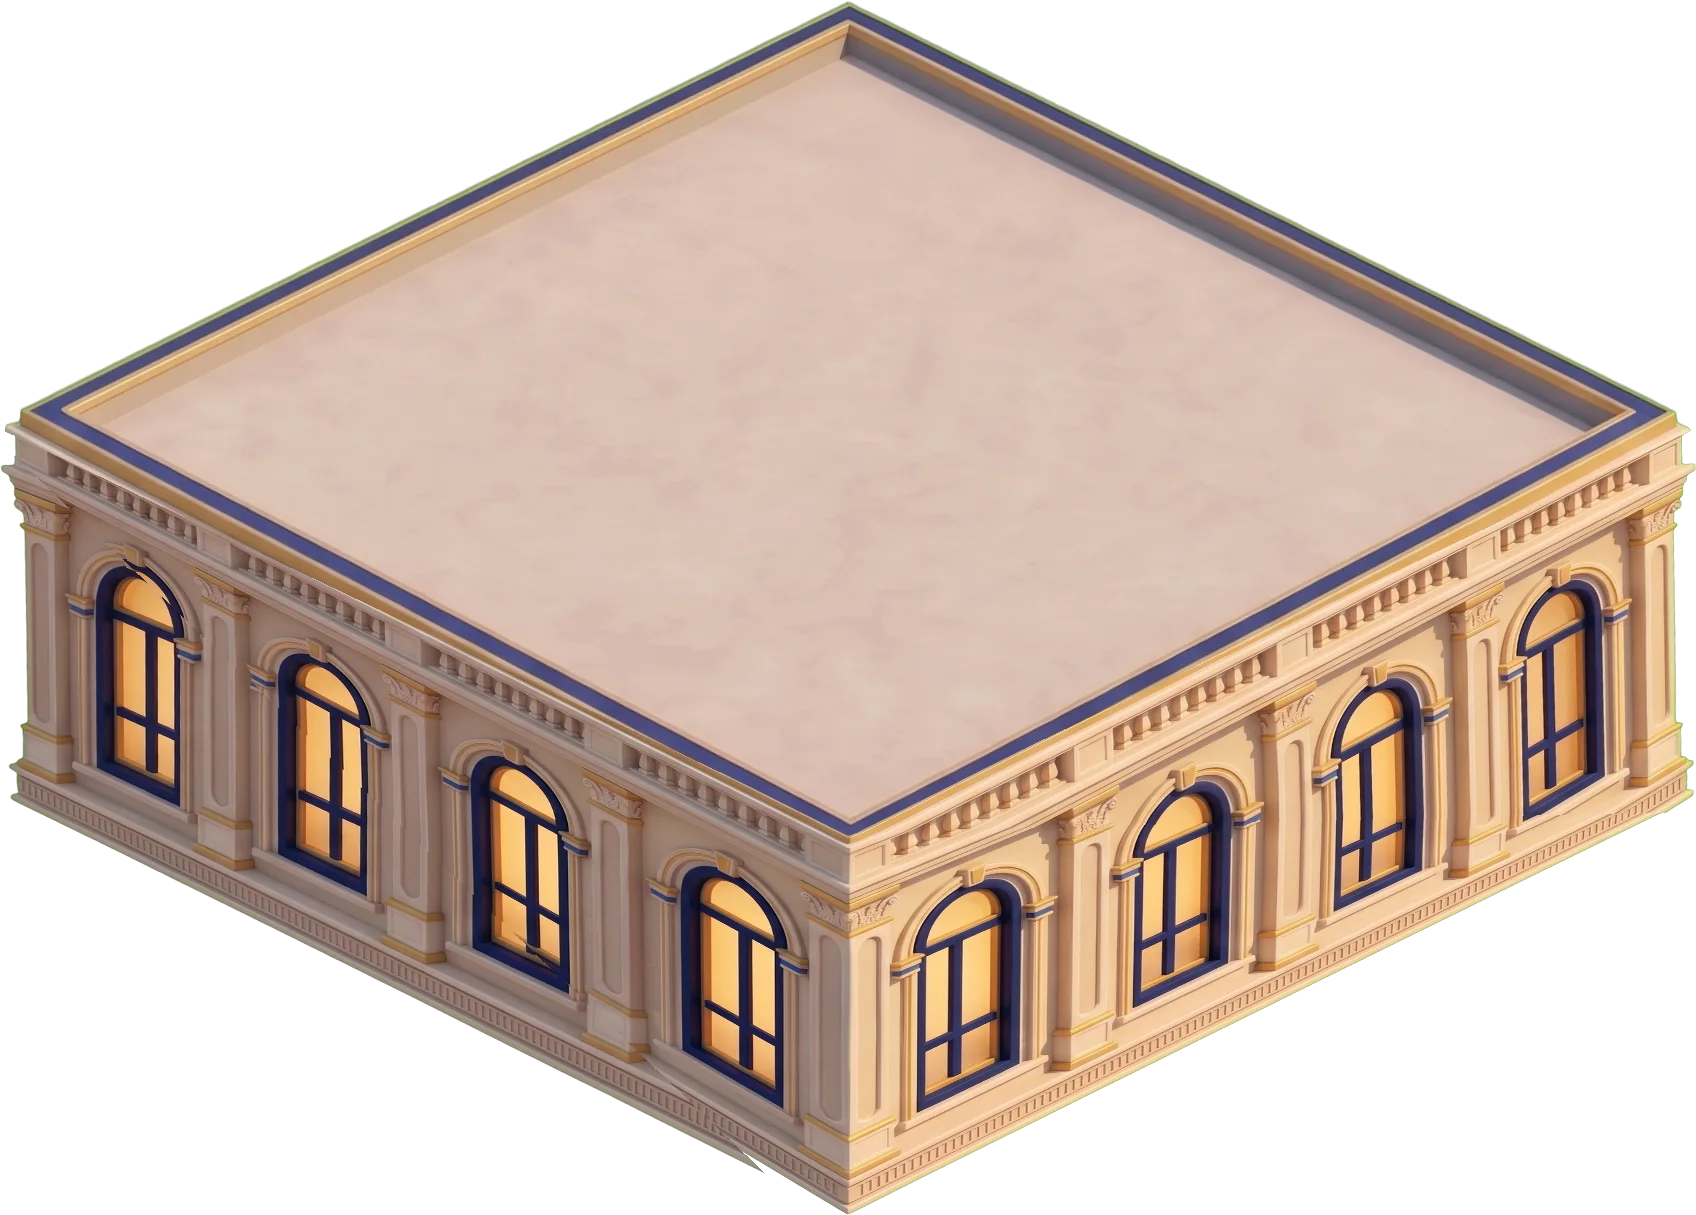
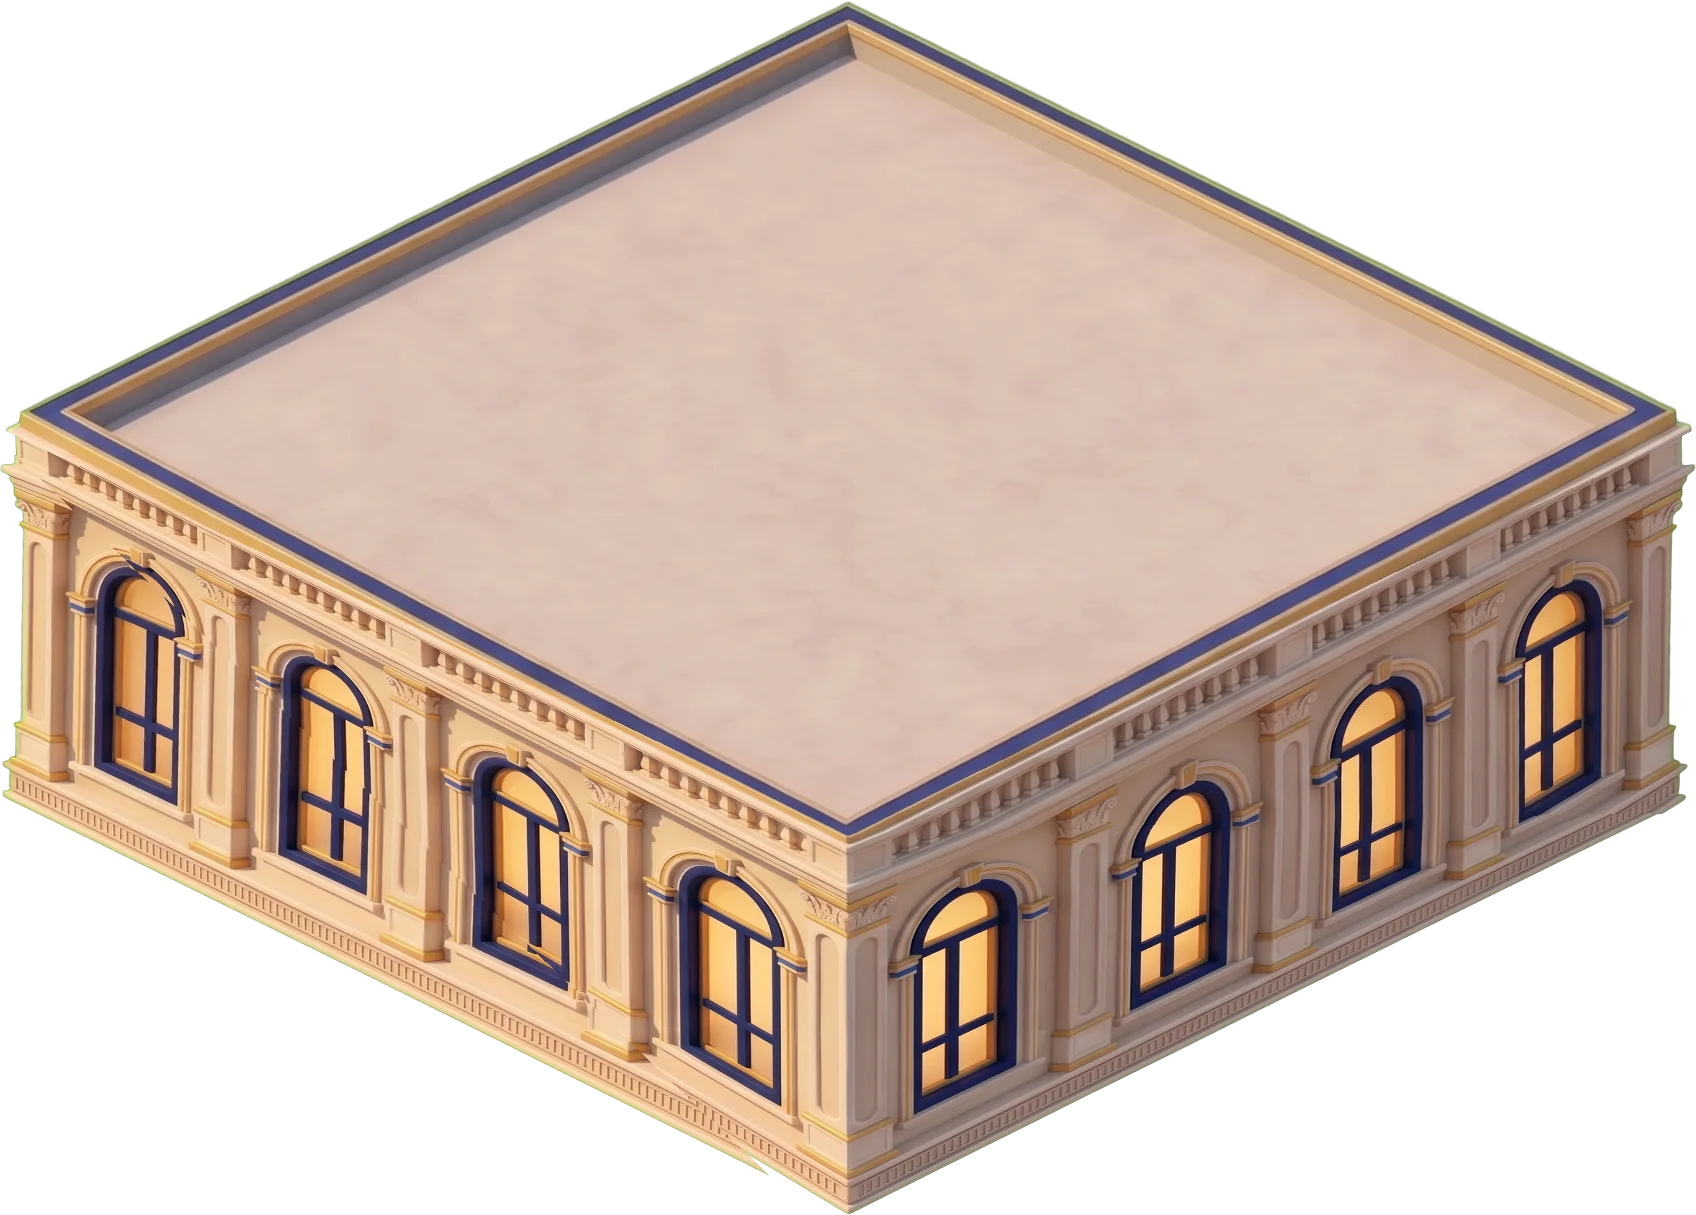
Island: club house render against the wall, storeys lit from the left, fling momentum, no tab swipe on Home, ?fps=1 meter

diff --git a/js/app/diorama-view.js b/js/app/diorama-view.js
@@ -968,7 +968,33 @@ export function wireDiorama(root, ctx) {
     const id = stage.gl.pick(p.x, p.y, (e.pointerType === 'mouse' ? 2 : 8) / view.v.s);
     return id ? worldEl.querySelector(`[data-item="${CSS.escape(id)}"]`) : null;
   };
+  // A fling: let go of a pan while moving and the camera glides on, slowing like a native scroll
+  // view (its speed falls by FRICTION each millisecond), till it stops or meets the world's edge.
+  // Any new touch catches it.
+  const FRICTION = 0.9965;
+  let glide = 0;
+  const stopGlide = () => { if (glide) cancelAnimationFrame(glide); glide = 0; };
+  const fling = (vx, vy) => {
+    stopGlide();
+    if (reduced() || Math.hypot(vx, vy) < 0.25) return;
+    let last = performance.now();
+    const step = (now) => {
+      if (!vp.isConnected) { glide = 0; return; }
+      const dt = Math.min(40, now - last); last = now;
+      const k = FRICTION ** dt;
+      vx *= k; vy *= k;
+      const want = { ...view.v, tx: view.v.tx + vx * dt, ty: view.v.ty + vy * dt };
+      view.v = want; apply();
+      // held at an edge: that way stops
+      const r = box(); const c = clampView(want, r.width, r.height, env);
+      if (Math.abs(c.tx - want.tx) > 0.5) vx = 0;
+      if (Math.abs(c.ty - want.ty) > 0.5) vy = 0;
+      glide = Math.hypot(vx, vy) > 0.02 ? requestAnimationFrame(step) : 0;
+    };
+    glide = requestAnimationFrame(step);
+  };
   vp.onpointerdown = (e) => {
+    stopGlide();
     panned = false; swallow = false;
     if (e.button !== undefined && e.button > 0) return;
     pts.set(e.pointerId, { x: e.clientX, y: e.clientY });
@@ -1010,6 +1036,9 @@ export function wireDiorama(root, ctx) {
     }
     if (g.mode === 'pan' && g.moved) {
       view.v = { ...g.from, tx: g.from.tx + dx, ty: g.from.ty + dy }; apply();
+      // the finger's last 80 ms, for the fling's speed
+      (g.trail ||= []).push({ t: e.timeStamp, x: e.clientX, y: e.clientY });
+      while (g.trail.length > 2 && e.timeStamp - g.trail[0].t > 80) g.trail.shift();
     } else if (g.mode === 'drag' && g.moved) {
       g.cx = e.clientX; g.cy = e.clientY;
       if (!g.edgeLoop) g.edgeLoop = requestAnimationFrame(edgePan);
@@ -1061,6 +1090,12 @@ export function wireDiorama(root, ctx) {
       return;
     }
     if (done.mode === 'pan' && !done.moved) { if (done.item) select(done.item); else deselect(); }
+    if (done.mode === 'pan' && done.moved && done.trail?.length > 1 && pts.size === 0) {
+      const a = done.trail[0]; const b = done.trail[done.trail.length - 1];
+      const dt = b.t - a.t;
+      // a finger that stopped before letting go doesn't fling
+      if (dt > 8 && e.timeStamp - b.t < 60) fling((b.x - a.x) / dt, (b.y - a.y) / dt);
+    }
   };
   vp.onpointerup = end;
   vp.onpointercancel = (e) => { if (g?.mode === 'drag') cancelDrag(); pts.delete(e.pointerId); g = null; };

diff --git a/js/app/main.js b/js/app/main.js
@@ -44,6 +44,7 @@ import { syncQuestClaims } from './quest-sync.js';
 import { openMissionBoard, maybeShowRecap, BOARD_ART } from './missions-view.js';
 import { withTabTransition, rollNum, animateIn, busy } from './motion.js';
 import { wireTabSwipe } from './tab-swipe.js';
+import { maybeFpsMeter } from './fps-meter.js';
 import { openSeasonPath } from './game.js';
 import { openLayer, closeLayer, closeAllLayers, hasLayers, topLayerName, openRoute, leaveRoute } from './nav.js';
 import { haptic } from './haptics.js';
@@ -1079,6 +1080,7 @@ function maybeOnboard() {
 // ---- boot -------------------------------------------------------------------
 
 async function boot() {
+  maybeFpsMeter();   // ?fps=1: a frame meter, for testing on a phone
   // ?demo=1 only: a hook so screenshots and clips can show moments on demand
   if (new URLSearchParams(location.search).has('demo')) window.moskeDemo = { levelUp: (sport = 'run', level = 3) => openLevelUp(sport, level) };
   await store.init();
@@ -1164,11 +1166,12 @@ async function boot() {
 
   // gear and gels: re-render when the server copy changes; a gel running out redraws too
   onGear(() => render());
-  // swipe between the dock's tabs (not over HOME's stage, nor while anything is open)
+  // swipe between the dock's tabs (never from Home, whose base takes every drag: the camera, the
+  // floor picker; nor while anything is open)
   wireTabSwipe(document.getElementById('view'), {
     current: () => appState.tab,
     go: goTab,
-    blocked: () => hasLayers() || (appState.tab === 'progress' && appState.pgView === 'scene'),
+    blocked: () => hasLayers() || appState.tab === 'progress',
     label: (key) => t(key),
   });
   // the stage's room buttons switch the room on the Profile tab

diff --git a/js/app/fps-meter.js b/js/app/fps-meter.js
@@ -1,0 +1,32 @@
+// fps-meter.js — a small frame meter for testing smoothness on a real phone. Open the app with
+// ?fps=1 (it stays on till ?fps=0). Each second it shows the frames drawn, the slowest frame,
+// and how many frames in the last 10 s took over 50 ms (a hitch you can feel).
+
+const KEY = 'moske-fps';
+
+export function maybeFpsMeter() {
+  try {
+    const q = new URLSearchParams(location.search).get('fps');
+    if (q != null) localStorage.setItem(KEY, q === '1' ? '1' : '0');
+    if (localStorage.getItem(KEY) !== '1') return;
+  } catch { return; }
+  const el = document.createElement('div');
+  el.setAttribute('aria-hidden', 'true');
+  el.style.cssText = 'position:fixed;left:8px;top:calc(env(safe-area-inset-top) + 4px);z-index:99999;pointer-events:none;'
+    + 'font:600 11px/1.3 ui-monospace,monospace;color:#fff;background:rgba(0,0,0,.65);padding:4px 6px;border-radius:6px;white-space:pre';
+  document.body.append(el);
+  let last = performance.now(); let n = 0; let worst = 0; let since = last;
+  const hitches = [];
+  const tick = (now) => {
+    const dt = now - last; last = now; n++;
+    if (dt > worst) worst = dt;
+    if (dt > 50 && document.visibilityState === 'visible') hitches.push(now);
+    if (now - since >= 1000) {
+      while (hitches.length && now - hitches[0] > 10000) hitches.shift();
+      el.textContent = `${Math.round((n * 1000) / (now - since))} fps  worst ${Math.round(worst)} ms\nhitches/10s ${hitches.length}`;
+      n = 0; worst = 0; since = now;
+    }
+    requestAnimationFrame(tick);
+  };
+  requestAnimationFrame(tick);
+}

diff --git a/js/core/island-art.js b/js/core/island-art.js
@@ -444,8 +444,8 @@ export const ISLAND_ART = {
    4773.8
   ],
   "club": [
-   2574.7,
-   6728.0
+   2699.3,
+   6666.8
   ],
   "market": [
    3945.2,
@@ -466,17 +466,17 @@ export const ISLAND_ART = {
   },
   "club": {
    "src": "icons/Island/club.webp",
-   "x": 1986.1,
-   "y": 5803.6,
-   "w": 965.4,
-   "h": 961.4
+   "x": 2108.8,
+   "y": 5792.3,
+   "w": 1016.6,
+   "h": 963.7
   },
   "club-ruin": {
    "src": "icons/Island/club-ruin.webp",
-   "x": 1986.1,
-   "y": 5803.6,
-   "w": 965.4,
-   "h": 961.4
+   "x": 2108.8,
+   "y": 5792.3,
+   "w": 1016.6,
+   "h": 963.7
   },
   "market": {
    "src": "icons/Island/market.webp",
@@ -602,15 +602,15 @@ export const ISLAND_ART = {
    "src": "icons/Island/storey-1.webp",
    "w": 1696.0,
    "h": 1215.0,
-   "ax": 846.7,
+   "ax": 848.7,
    "ay": 1212.3,
    "wall": 380.0
   },
   {
    "src": "icons/Island/storey-2.webp",
-   "w": 1713.0,
+   "w": 1714.0,
    "h": 1122.0,
-   "ax": 859.7,
+   "ax": 852.7,
    "ay": 1115.5,
    "wall": 290.2
   },
@@ -624,9 +624,9 @@ export const ISLAND_ART = {
   },
   {
    "src": "icons/Island/storey-4.webp",
-   "w": 1718.0,
+   "w": 1717.0,
    "h": 1119.0,
-   "ax": 863.7,
+   "ax": 853.7,
    "ay": 1107.7,
    "wall": 278.4
   }

diff --git a/sw.js b/sw.js
@@ -1,7 +1,7 @@
 // sw.js — offline-first service worker. Precaches the app shell and serves
 // cache-first, falling back to the network (and to index.html for navigations).
 
-const CACHE = 'triquest-v164';
+const CACHE = 'triquest-v165';
 // pictures, models, fonts and the 3D library: kept across versions (see the fetch handler)
 const ASSETS_CACHE = 'triquest-assets';
 const checked = new Set();   // assets checked with the server while this worker runs
@@ -131,6 +131,7 @@ const ASSETS = [
   './js/app/quest-sync.js',
   './js/app/motion.js',
   './js/app/tab-swipe.js',
+  './js/app/fps-meter.js',
   './js/app/game.js',
   './js/app/share.js',
   './js/app/onboarding.js',

diff --git a/tools/fit-building.py b/tools/fit-building.py
@@ -30,6 +30,7 @@ ART_JS = os.path.join(REPO, 'js', 'core', 'island-art.js')
 STORE = {'ground': 1.0, 'storey': 1.0}       # stored px per world px
 # no storey's walls taller than this (world px): a taller repaint is squashed to it, so the floors
 # stay much of a height (storey 2 and 4 are 280-290)
+FLIP = os.environ.get('FIT_FLIP', '1') == '1'   # mirror the storeys (see the loop)
 MAX_WALL = float(os.environ.get('FIT_MAX_WALL', 380))
 MARGIN = 40                                   # world px each face reaches past its corners (cornices, rails)
 
@@ -169,7 +170,15 @@ def main():
         HULL = {'T', 'L', 'R', 'BL', 'BF', 'BR'}; MARGIN_PX = MARGIN * k
         c = tuple(np.mean([d[n] for n in HULL], axis=0))
         faces = [[('L', 'F', 'BF'), ('L', 'BF', 'BL')], [('F', 'R', 'BR'), ('F', 'BR', 'BF')], [('T', 'L', 'F'), ('T', 'F', 'R')]]
-        im = fit(keyed(os.path.join(rep, name + '.jpg')), p, d, faces, size, c, roof_fill=('T', 'L', 'F', 'R'))
+        src = keyed(os.path.join(rep, name + '.jpg'))
+        if FLIP:
+            # the storeys were painted lit from the right; the ground floor and the map from the left.
+            # Mirrored, the sunny face is the left one (the facades are symmetric enough not to show it)
+            W = src.shape[1]
+            src = np.ascontiguousarray(src[:, ::-1])
+            m = {n: (W - 1 - q[0], q[1]) for n, q in p.items()}
+            p = {**m, 'L': m['R'], 'R': m['L'], 'BL': m['BR'], 'BR': m['BL']}
+        im = fit(src, p, d, faces, size, c, roof_fill=('T', 'L', 'F', 'R'))
         bb = im.getchannel('A').point(lambda v: 255 if v > 3 else 0).getbbox()
         im = im.crop(bb)
         out = f'storey-{i}'

diff --git a/tools/cut-grounds.py b/tools/cut-grounds.py
@@ -38,7 +38,7 @@ PAD = 8                                 # px of the map each tile overlaps its n
 #   market: the kiosk, tucked in on the forecourt just right of the upper stairs
 # The coliseum is painted on the map, so it only has a button.
 BUILDINGS = {
-    'club':   {'render': 'clubhouse-L4-paint', 'mid': (2480, 5490), 'side': 0.84},   # the repaint (tools/key-paint.py), its back to the terrace's wall
+    'club':   {'render': 'clubhouse-L4-bridge', 'mid': (2600, 5431), 'side': 0.84},   # its back to the terrace's wall
     'market': {'render': 'shop-kiosk-L1-a', 'mid': (3800, 5060), 'side': 0.4},
 }
 # what brings the deliveries (js/app/city2d.js): pictures that move along a road, each anchored at
